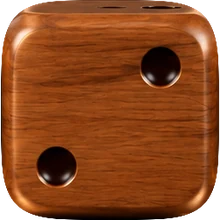
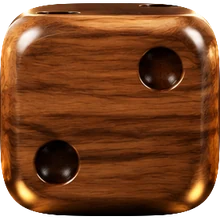
Yam's: new Or and Bois dice artwork
Claude-Session: https://claude.ai/code/session_01H28i4nEd8tcnSnyPtjjJb7

diff --git a/yams.html b/yams.html
@@ -473,7 +473,7 @@ const SKINS = {
 };
 const SKIN_IDS = Object.keys(SKINS);
 // les dés « photo » : on précharge les 6 faces pour qu'elles s'affichent tout de suite
-SKIN_IDS.forEach(id => { if (SKINS[id].img) for (let v = 1; v <= 6; v++) { const im = new Image(); im.src = `img/dice/${SKINS[id].img}_${v}.webp`; } });
+SKIN_IDS.forEach(id => { if (SKINS[id].img) for (let v = 1; v <= 6; v++) { const im = new Image(); im.src = `img/dice/${SKINS[id].img}_${v}.webp?v=2`; } });
 // couleurs : face claire en haut, tranche plus sombre en dessous
 const shade = (hex, k) => { const n = parseInt(hex.slice(1), 16); const f = c => Math.max(0, Math.min(255, Math.round(c * k))); return '#' + [n >> 16 & 255, n >> 8 & 255, n & 255].map(f).map(v => v.toString(16).padStart(2, '0')).join(''); };
 const mix = (a, b, t) => { const A = parseInt(a.slice(1), 16), B = parseInt(b.slice(1), 16); return '#' + [16, 8, 0].map(sh => Math.round((A >> sh & 255) * (1 - t) + (B >> sh & 255) * t).toString(16).padStart(2, '0')).join(''); };
@@ -499,7 +499,7 @@ function pip(sk, x, y, big) {
 }
 function dieSVG(v, skinId) {
   const id = SKINS[skinId] ? skinId : 'classic', sk = SKINS[id];
-  if (sk.img) return `<svg viewBox="0 0 100 100" style="overflow:visible"><ellipse cx="50" cy="95" rx="38" ry="4.5" fill="rgba(0,0,0,.3)"/><image href="img/dice/${sk.img}_${v || 6}.webp" x="4" y="4" width="92" height="92"/><path class="hring" d="${DIE_PATH}" fill="none" stroke="#ffcf3f" stroke-width="5"/></svg>`;
+  if (sk.img) return `<svg viewBox="0 0 100 100" style="overflow:visible"><ellipse cx="50" cy="95" rx="38" ry="4.5" fill="rgba(0,0,0,.3)"/><image href="img/dice/${sk.img}_${v || 6}.webp?v=2" x="4" y="4" width="92" height="92"/><path class="hring" d="${DIE_PATH}" fill="none" stroke="#ffcf3f" stroke-width="5"/></svg>`;
   let extra = '';
   if (sk.grain) extra = '<path d="M14 30c20 4 50-4 72 2M12 58c24 5 52-3 76 3M16 80c18 3 46-2 68 1" stroke="rgba(90,50,20,.35)" stroke-width="2" fill="none"/>';
   if (sk.stars) extra = '<g fill="#fff" opacity=".75"><circle cx="20" cy="68" r="1.4"/><circle cx="82" cy="40" r="1.2"/><circle cx="60" cy="86" r="1.3"/><circle cx="38" cy="14" r="1.1"/><circle cx="84" cy="80" r="1"/></g>';
